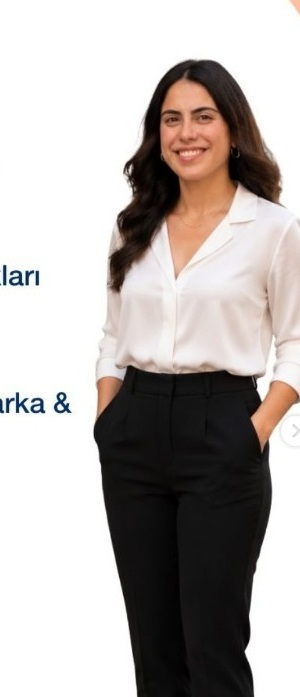
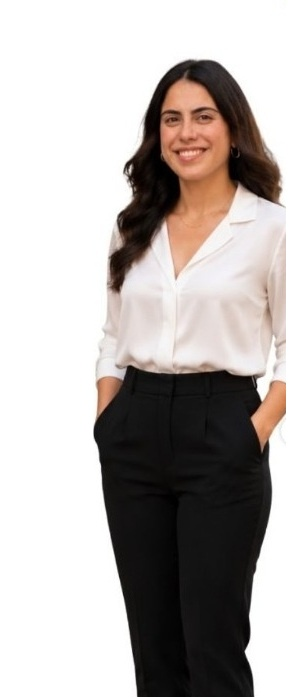
Update image dimensions and styles for about section; enhance visual elements with new CSS properties.

diff --git a/styles.css b/styles.css
@@ -243,7 +243,7 @@ textarea {
   display: grid;
   grid-template-columns: 1.05fr 0.95fr;
   gap: 2.5rem;
-  align-items: end;
+  align-items: center;
 }
 
 .hero-copy {
@@ -291,22 +291,59 @@ textarea {
   gap: 0.8rem;
 }
 
-.hero-visual {
+.hero-visual,
+.about-visual {
   margin: 0;
   position: relative;
   z-index: 1;
+  isolation: isolate;
+}
+
+.hero-visual {
+  justify-self: end;
+  width: min(100%, 400px);
   animation: rise 0.95s var(--ease) 0.12s both;
+}
+
+/* Yumuşak kenar geçişi — sert crop hissini kırar */
+.hero-visual::after,
+.about-visual::after {
+  content: "";
+  position: absolute;
+  inset: -1px;
+  pointer-events: none;
+  z-index: 2;
+  background:
+    linear-gradient(90deg, var(--fade-bg) 0%, transparent 18%, transparent 82%, var(--fade-bg) 100%),
+    linear-gradient(180deg, var(--fade-bg) 0%, transparent 14%, transparent 72%, var(--fade-bg) 100%);
+}
+
+.hero-visual {
+  --fade-bg: #ffffff;
+}
+
+.about-visual {
+  --fade-bg: #ffffff;
 }
 
 .hero-photo,
 .about-photo {
+  display: block;
   width: 100%;
-  max-height: min(72vh, 640px);
-  object-fit: cover;
-  object-position: top center;
-  border-radius: 1.5rem 1.5rem 0.5rem 1.5rem;
-  box-shadow: var(--shadow);
-  background: var(--mist);
+  height: auto;
+  max-height: min(74vh, 660px);
+  object-fit: contain;
+  object-position: center bottom;
+  border-radius: 0;
+  box-shadow: none;
+  background: transparent;
+  -webkit-mask-image: radial-gradient(ellipse 92% 88% at 50% 42%, #000 42%, rgba(0, 0, 0, 0.65) 68%, transparent 100%);
+  mask-image: radial-gradient(ellipse 92% 88% at 50% 42%, #000 42%, rgba(0, 0, 0, 0.65) 68%, transparent 100%);
+}
+
+.about-photo {
+  object-position: center center;
+  max-height: min(72vh, 620px);
 }
 
 .btn {
@@ -929,7 +966,8 @@ textarea {
 
   .hero-visual {
     order: -1;
-    width: min(340px, 100%);
+    width: min(300px, 90%);
+    justify-self: center;
     margin-inline: auto;
   }
 
@@ -951,7 +989,7 @@ textarea {
   }
 
   .about-visual {
-    width: min(360px, 100%);
+    width: min(320px, 90%);
     margin-inline: auto;
   }
 }

diff --git a/index.html b/index.html
@@ -241,7 +241,7 @@
       <div class="swoosh swoosh-tr soft" aria-hidden="true"></div>
       <div class="container about-grid">
         <figure class="about-visual">
-          <img src="assets/ceylan-about.jpg" alt="Ceylan Tarhan portre" class="about-photo" width="638" height="1394" />
+          <img src="assets/ceylan-about.jpg" alt="Ceylan Tarhan portre" class="about-photo" width="300" height="697" />
         </figure>
         <div class="about-copy">
           <p class="script-accent">Ben</p>
